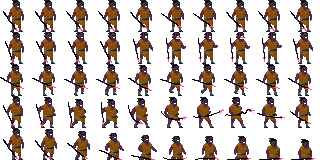
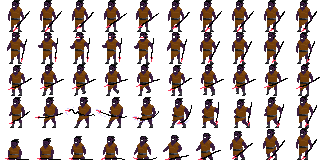
added big orcs

Changed region(s): [[0.0, 0.0, 1.0, 1.0]]

diff --git a/orcs-hunter/Orc.js b/orcs-hunter/Orc.js
@@ -8,6 +8,7 @@ var Orc = cc.Sprite.extend({
     DYING_ROW: 4,     // Top row for death animation frames
     isDying: false,   // Track if orc is in dying state
     isAttacking: false, // Track if orc is in attacking state
+    attackPower: 1,     // Points of castle power drained per attack loop
     // Attack zone relative to left edge (px)
     ATTACK_ZONE_MIN_X: 120,
     ATTACK_ZONE_MAX_X: 160,
@@ -74,13 +75,13 @@ var Orc = cc.Sprite.extend({
             // Calculate frame position
             var x = col * frameWidth;
             var y = row * frameHeight;
-            
-            // Create frame with proper dimensions, cropping 5 pixels from bottom
+        // Regular orcs crop walking, attack, and death frames by 5px; big orcs don't crop
+            var crop = this.attackPower > 1 ? 0 : 5;
             var frame = cc.SpriteFrame.create(
                 texture,
-                cc.rect(x, y, frameWidth, frameHeight - 5) // Crop 5 pixels from bottom
+                cc.rect(x, y, frameWidth, frameHeight - crop)
             );
-            frame.setOffset(cc.p(0, 5)); // Adjust offset to compensate for the crop
+            frame.setOffset(cc.p(0, crop));
             
             // Debug logging to verify frame creation
             cc.log('Frame ' + col + ': ' + 
@@ -160,11 +161,13 @@ var Orc = cc.Sprite.extend({
         var rowY = this.DYING_ROW * this.frameHeight;
         // Loop from last column to first (9 to 0)
         for (var col = 9; col >= 0; col--) {
+            // Regular orcs crop attack/death, big orcs no crop
+            var crop = this.attackPower > 1 ? 0 : 5;
             var frame = cc.SpriteFrame.create(
                 this.texture,
-                cc.rect(col * this.frameWidth, rowY, this.frameWidth, this.frameHeight - 5)
+                cc.rect(col * this.frameWidth, rowY, this.frameWidth, this.frameHeight - crop)
             );
-            frame.setOffset(cc.p(0, 5));
+            frame.setOffset(cc.p(0, crop));
             deathFrames.push(frame);
         }
         
@@ -213,12 +216,14 @@ var Orc = cc.Sprite.extend({
         }
         var attackAnim = new cc.Animation(attackFrames, this.ANIMATION_SPEED);
         var attackAnimate = new cc.Animate(attackAnim);
-        // Repeat forever: play animation then decrement castle power
+        // Repeat forever: play animation then deduct attackPower points
         var attackSequence = cc.sequence(
             attackAnimate,
             cc.callFunc(function() {
                 if (this.gameLayer && typeof this.gameLayer.decrementCastlePower === 'function') {
-                    this.gameLayer.decrementCastlePower();
+                    for (var i = 0; i < this.attackPower; i++) {
+                        this.gameLayer.decrementCastlePower();
+                    }
                 }
             }, this)
         );

diff --git a/orcs-hunter/game.js b/orcs-hunter/game.js
@@ -245,6 +245,18 @@ var GameLayer = cc.Layer.extend({
         this.addChild(o, 3);
         this.orcs.push(o);
     },
+    // Spawn a stronger orc with higher attackPower
+    spawnBigOrc: function() {
+        var baseY = this.castle.getOrcBaseY();
+        var baseX = cc.winSize.width + 50;
+        var o = new BigOrc(this);
+        if (!o.init()) return;
+        var jitterX = baseX + (Math.random() * 40 - 20);
+        var jitterY = baseY + (Math.random() * 20 - 10);
+        o.setPosition(jitterX, jitterY);
+        this.addChild(o, 3);
+        this.orcs.push(o);
+    },
     spawnDragon: function() {
         var d = new cc.Dragon(this);
         var pos = d.getPosition();
@@ -279,6 +291,8 @@ var GameLayer = cc.Layer.extend({
                 for (var i = 0; i < evt.count; i++) {
                     if (evt.type === "orc") {
                         this.spawnOrc();
+                    } else if (evt.type === "big-orc") {
+                        this.spawnBigOrc();
                     } else if (evt.type === "dragon") {
                         this.spawnDragon();
                     }

diff --git a/orcs-hunter/index.html b/orcs-hunter/index.html
@@ -10,6 +10,7 @@
     <script type="text/javascript" src="arrow.js" charset="UTF-8"></script>
     <script type="text/javascript" src="Hero.js" charset="UTF-8"></script>
     <script type="text/javascript" src="Orc.js" charset="UTF-8"></script>
+    <script type="text/javascript" src="BigOrc.js" charset="UTF-8"></script>
     <script type="text/javascript" src="castle.js" charset="UTF-8"></script>
     <script type="text/javascript" src="background.js" charset="UTF-8"></script>
     <script type="text/javascript" src="Dragon.js" charset="UTF-8"></script>
@@ -27,6 +28,7 @@
                     "assets/hero.png",
                     "assets/arrow.png",
                     "assets/orc.png",
+                    "assets/big-orc.png",
                     "assets/castle-tileset.png",
                     "assets/bg-tileset.png",
                     "assets/dragon-red.png"

diff --git a/orcs-hunter/BigOrc.js b/orcs-hunter/BigOrc.js
@@ -1,0 +1,23 @@
+// BigOrc.js
+// A stronger variant of Orc that deals double power damage.
+
+var BigOrc = Orc.extend({
+    // Override attack power (2 points per attack loop)
+    attackPower: 2,
+
+    /**
+     * Initialize with its specific texture.
+     * @returns {boolean} true if initialization succeeded
+     */
+    init: function() {
+        var texture = cc.textureCache.addImage("assets/big-orc.png");
+        if (!texture) {
+            console.error("Failed to load big-orc.png");
+            return false;
+        }
+        return this._super(texture);
+    }
+});
+
+// Expose globally
+window.BigOrc = BigOrc;
